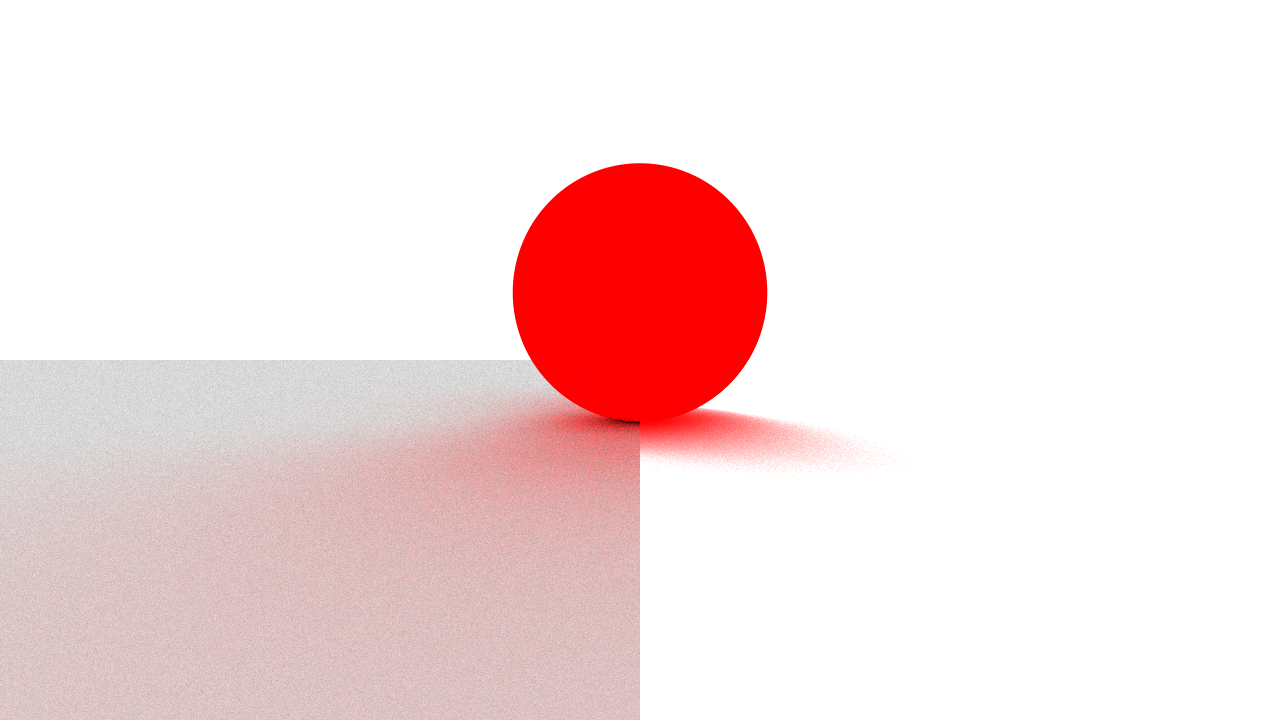
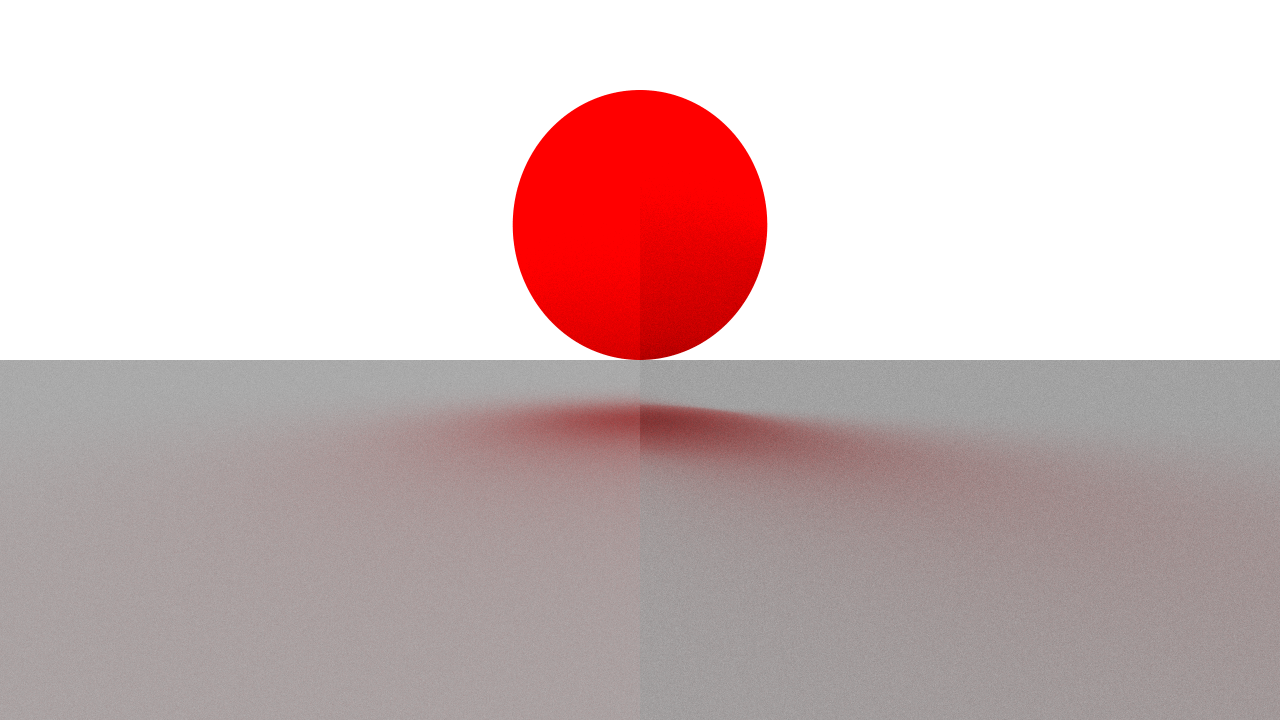
make it work

diff --git a/src/scene/mod.rs b/src/scene/mod.rs
@@ -3,6 +3,7 @@ use rand::rngs::ThreadRng;
 use crate::{
     camera::Camera,
     light::Light,
+    material::Material,
     object::{HitRecord, Hittable},
     ray::Ray,
     skybox::Skybox,
@@ -51,7 +52,7 @@ impl Scene {
         let mut ray: Ray = *ray;
         for _bounce in 0..depth {
             if let Some(hit_record) = self.hit(&ray, 0.001) {
-                let color: Vec3<FloatSize> = self.illuminate(&hit_record);
+                // let mut color: Vec3<FloatSize> = self.illuminate(&hit_record);
 
                 ray = hit_record
                     .material
@@ -67,10 +68,40 @@ impl Scene {
                 let pdf = 1.0 / (2.0 * std::f64::consts::PI as FloatSize);
 
                 throughput *= brdf.scale(cos_theta).scale(pdf.recip());
+
+                // for light in &self.lights.clone() {
+                //     let light_direction = light.position() - hit_record.point;
+                //     let distance_to_light = light_direction.magnitude();
+                //     let shadow_ray = Ray::new(hit_record.point, light_direction.normalize());
+                //     if !self.shadow_hit(&shadow_ray, 0.001, distance_to_light) {
+                //         let light_intensity = light.intensity()
+                //             / (4.0 * std::f64::consts::PI * distance_to_light.powi(2));
+                //         let light_power = light.color().scale(light_intensity);
+                //         let cos_theta = shadow_ray.direction.dot(&hit_record.normal).max(0.0);
+                //         throughput *= light_power.scale(cos_theta);
+                //     }
+                // }
+
+                let reflectivity = hit_record.material.reflectivity;
+                // if reflectivity > 0.0 {
+                //     let reflected_direction =
+                //         Material::reflect(&ray.direction.normalize(), &hit_record.normal);
+                //     ray = Ray::new(hit_record.point, reflected_direction);
+                //     throughput *= Vec3::new([reflectivity, reflectivity, reflectivity]);
+                // }
             } else {
                 return throughput * self.skybox.color;
             }
         }
         Vec3::new([0.0, 0.0, 0.0])
+    }
+
+    fn shadow_hit(&self, shadow_ray: &Ray, arg: f64, distance_to_light: f64) -> bool {
+        for object in self.objects.iter() {
+            if let Some(_record) = object.hit(shadow_ray, arg, distance_to_light) {
+                return true;
+            }
+        }
+        false
     }
 }

diff --git a/src/material/mod.rs b/src/material/mod.rs
@@ -28,23 +28,6 @@ fn generate_coordinate_system(normal: &Vec3<FloatSize>) -> (Vec3<FloatSize>, Vec
     (u, v)
 }
 
-fn cosine_weighted_sample_2(
-    normal: &Vec3<FloatSize>,
-    rand_state: &mut ThreadRng,
-) -> Vec3<FloatSize> {
-    let (v, u) = generate_coordinate_system(normal);
-    let r1: FloatSize = rand_state.gen_range(0.0..1.0);
-    let r2: FloatSize = rand_state.gen_range(0.0..1.0);
-    let theta = r1.sqrt().acos();
-    let phi = r2 * 2.0 * std::f64::consts::PI as FloatSize;
-    let a = Vec3::new([phi.sin() * theta.cos(), phi.cos(), phi.sin() * theta.sin()]);
-    Vec3::new([
-        a.x() * u.x() + a.y() * normal.x() + a.z() * v.x(),
-        a.x() * u.y() + a.y() * normal.y() + a.z() * v.y(),
-        a.x() * u.z() + a.y() * normal.z() + a.z() * v.z(),
-    ])
-}
-
 fn cosine_weighted_sample_1(
     normal: &Vec3<FloatSize>,
     rand_state: &mut ThreadRng,
@@ -56,11 +39,28 @@ fn cosine_weighted_sample_1(
     let phi = 2.0 * std::f64::consts::PI * r1;
     let r = r2.sqrt();
     let x = r * phi.cos();
-    let y = r * phi.sin();
-
-    let z = (1.0 - x * x - y * y).sqrt();
+    // let y = (1.0 - x * x - y * y).sqrt();
+    let y = (1.0 - r2).sqrt();
+    let z = r * phi.sin();
 
     let a = Vec3::new([x, y, z]);
+    Vec3::new([
+        a.x() * u.x() + a.y() * normal.x() + a.z() * v.x(),
+        a.x() * u.y() + a.y() * normal.y() + a.z() * v.y(),
+        a.x() * u.z() + a.y() * normal.z() + a.z() * v.z(),
+    ])
+}
+
+fn cosine_weighted_sample_2(
+    normal: &Vec3<FloatSize>,
+    rand_state: &mut ThreadRng,
+) -> Vec3<FloatSize> {
+    let (v, u) = generate_coordinate_system(normal);
+    let r1: FloatSize = rand_state.gen_range(0.0..1.0);
+    let r2: FloatSize = rand_state.gen_range(0.0..1.0);
+    let theta = r1.sqrt().acos();
+    let phi = r2 * 2.0 * std::f64::consts::PI as FloatSize;
+    let a = Vec3::new([phi.sin() * theta.cos(), phi.cos(), phi.sin() * theta.sin()]);
     Vec3::new([
         a.x() * u.x() + a.y() * normal.x() + a.z() * v.x(),
         a.x() * u.y() + a.y() * normal.y() + a.z() * v.y(),
@@ -91,7 +91,7 @@ impl Material {
         }
     }
 
-    fn reflect(v: &Vec3<FloatSize>, n: &Vec3<FloatSize>) -> Vec3<FloatSize> {
+    pub fn reflect(v: &Vec3<FloatSize>, n: &Vec3<FloatSize>) -> Vec3<FloatSize> {
         *v - n.scale(2.0 * v.dot(n))
     }
 

diff --git a/src/main.rs b/src/main.rs
@@ -2,6 +2,7 @@ use ::pathtracer::{pathtracer::PathTracer, scene::Scene};
 use minifb::{Key, Scale, Window, WindowOptions};
 use pathtracer::{
     camera::Camera,
+    light::pointlight::PointLight,
     material::Material,
     object::{plane::Plane, sphere::Sphere},
     scene::FloatSize,
@@ -17,10 +18,10 @@ fn main() {
         let scene = Scene {
             objects: vec![
                 Box::new(Sphere::new(
-                    Vec3::new([0.0, 1.0, 0.0]),
+                    Vec3::new([0.0, 1.5, 0.0]),
                     1.0,
                     Material {
-                        albedo: Vec3::new([1.5, 0.0, 0.0]),
+                        albedo: Vec3::new([1.0, 0.0, 0.0]),
                         reflectivity: 1.0,
                     },
                 )),
@@ -28,16 +29,15 @@ fn main() {
                     Vec3::new([0.0, 0.0, 0.0]),
                     Vec3::new([0.0, 1.0, 0.0]),
                     Material {
-                        albedo: Vec3::new([1.0, 1.0, 1.0]),
-                        reflectivity: 1.0,
+                        albedo: Vec3::new([0.5, 0.5, 0.5]),
+                        reflectivity: 0.0,
                     },
                 )),
             ],
-            lights: vec![
-            // Box::new(PointLight::new(
-            // Vec3::new([0.0, 3.0, 0.0]),
-            // Vec3::new([1.0, 1.0, 1.0]),))
-            ],
+            lights: vec![Box::new(PointLight::new(
+                Vec3::new([0.0, 3.0, 0.0]),
+                Vec3::new([1.0, 1.0, 1.0]),
+            ))],
             camera: Camera::new(
                 Vec3::new([0.0, 0.5, 3.0]),
                 Vec3::new([0.0, 0.0, -1.0]),

diff --git a/src/light/pointlight.rs b/src/light/pointlight.rs
@@ -1,7 +1,7 @@
 use crate::{object::HitRecord, scene::FloatSize, utils::vector::Vec3};
 
 use super::Light;
-#[derive(Debug)]
+#[derive(Debug, Clone, Copy)]
 pub struct PointLight {
     position: Vec3<FloatSize>,
     color: Vec3<FloatSize>,
@@ -12,10 +12,21 @@ impl PointLight {
         PointLight { position, color }
     }
 }
+
 impl Light for PointLight {
     fn illuminate(&self, hit_record: &HitRecord) -> Vec3<FloatSize> {
-        // check if in shadow
+        self.color
+    }
 
+    fn position(&self) -> Vec3<FloatSize> {
+        self.position
+    }
+
+    fn intensity(&self) -> FloatSize {
+        self.color.length()
+    }
+
+    fn color(&self) -> Vec3<FloatSize> {
         self.color
     }
 }

diff --git a/src/light/arealight.rs b/src/light/arealight.rs
@@ -1,6 +1,6 @@
 use super::Light;
 
-#[derive(Debug)]
+#[derive(Debug, Clone, Copy)]
 pub struct Arealight {}
 
 impl Light for Arealight {
@@ -8,6 +8,18 @@ impl Light for Arealight {
         &self,
         hit_record: &crate::object::HitRecord,
     ) -> crate::utils::vector::Vec3<crate::scene::FloatSize> {
+        todo!()
+    }
+
+    fn position(&self) -> crate::utils::vector::Vec3<crate::scene::FloatSize> {
+        todo!()
+    }
+
+    fn intensity(&self) -> crate::scene::FloatSize {
+        todo!()
+    }
+
+    fn color(&self) -> crate::utils::vector::Vec3<crate::scene::FloatSize> {
         todo!()
     }
 }

diff --git a/src/light/mod.rs b/src/light/mod.rs
@@ -3,7 +3,10 @@ use crate::{object::HitRecord, scene::FloatSize, utils::vector::Vec3};
 pub mod arealight;
 pub mod pointlight;
 
-// pub trait Light: Sync + Serialize + for<'a> Deserialize<'a> {
 pub trait Light: Sync + std::fmt::Debug {
+    fn position(&self) -> Vec3<FloatSize>;
     fn illuminate(&self, hit_record: &HitRecord) -> Vec3<FloatSize>;
+    fn intensity(&self) -> FloatSize;
+    fn color(&self) -> Vec3<FloatSize>;
+    // fn clone_box(&self) -> Box<dyn Light>;
 }

diff --git a/src/ray/mod.rs b/src/ray/mod.rs
@@ -22,7 +22,11 @@ impl Ray {
     //     }
     // }
 
-    pub(crate) fn at(&self, root: FloatSize) -> Vec3<FloatSize> {
+    pub fn new(origin: Vec3<FloatSize>, direction: Vec3<FloatSize>) -> Ray {
+        Ray { origin, direction }
+    }
+
+    pub fn at(&self, root: FloatSize) -> Vec3<FloatSize> {
         self.origin + self.direction.scale(root)
     }
 }

diff --git a/src/utils/vector.rs b/src/utils/vector.rs
@@ -76,6 +76,10 @@ where
         let s: T = num_traits::NumCast::from(1e-8).unwrap();
         self.0.iter().all(|&x| x.abs() < s)
     }
+
+    pub(crate) fn magnitude(&self) -> T {
+        self.length()
+    }
 }
 
 impl<T> Vector<T, 3>
